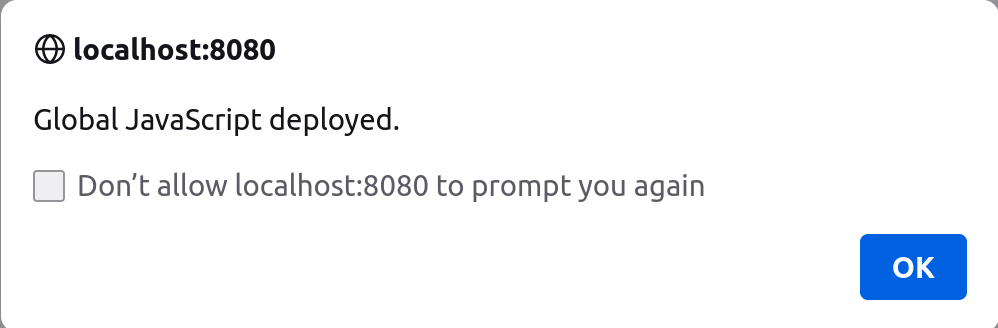
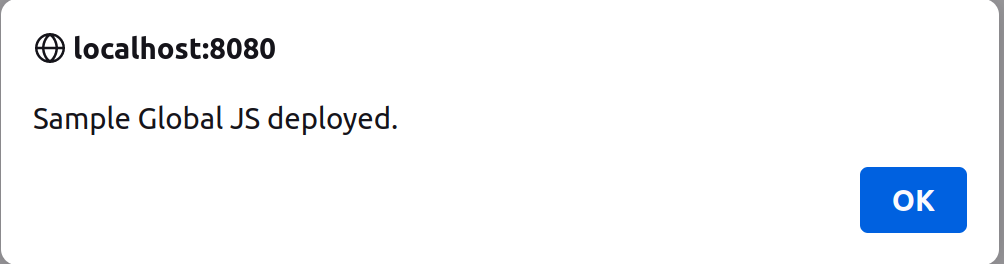
LRDOCS-11456 Fix existing tutorials to use the sample workspace instead of (the deprecated use of) Blade CLI

diff --git a/docs/dxp/latest/en/building-applications/client-extensions/front-end-client-extensions/tutorials/creating-your-first-javascript-client-extension.md b/docs/dxp/latest/en/building-applications/client-extensions/front-end-client-extensions/tutorials/creating-your-first-javascript-client-extension.md
@@ -5,7 +5,7 @@ uuid: e26e34b4-ca1b-490b-b911-4ef92ad123ea
 
 {bdg-secondary}`Available Liferay 7.4 U45+/GA45+`
 
-A basic JavaScript client extension is a great place to start with developing your own client extensions. You can use a JS client extension to run your own JavaScript on any page in Liferay without worrying about any dependency on Liferay code or developing a theme. You'll use [Blade CLI](../../../tooling/blade-cli.md) to generate, build, and deploy your client extension.
+A basic JavaScript client extension is a great place to start with developing your own client extensions. You can use a JS client extension to run your own JavaScript on any page in Liferay without worrying about any dependency on Liferay code or developing a theme. You'll use a sample client extension (from a [sample workspace](https://github.com/liferay/liferay-portal/tree/master/workspaces/sample-workspace)) to start with.
 
 ## Prerequisites
 
@@ -17,79 +17,81 @@ You must have these requirements ready in your development environment to begin 
    Please see the [compatibility matrix](https://help.liferay.com/hc/en-us/articles/4411310034829-Liferay-DXP-7-4-Compatibility-Matrix) for information on supported JDKs, databases, and environments. See [JVM Configuration](../../../../installation-and-upgrades/reference/jvm-configuration.md) for recommended JVM settings.
    ```
 
-1. Install [Blade CLI](../../../tooling/blade-cli/installing-and-updating-blade-cli.md).
+1. Start up a running instance of Liferay to test your client extension with. You can quickly start up a Liferay instance for testing by [Starting with a Docker Image](../../../../getting-started/starting-with-a-docker-image.md).
 
-1. Prepare a Liferay Workspace for your development environment. You can use [Blade CLI](../../../tooling/liferay-workspace/creating-a-liferay-workspace.md#creating-a-liferay-workspace-with-blade-cli) to set this up quickly for your desired version of Liferay.
-
-1. You must also have a running instance of Liferay to test your client extension with. You can quickly start up a Liferay instance for testing by [Starting with a Docker Image](../../../../getting-started/starting-with-a-docker-image.md).
-
-Now you have all the necessary tools to deploy your first JS client extension.
-
-## Create the Client Extension with Blade CLI
-
-Blade CLI generates the skeleton for many types of client extensions, including JS extensions: 
-
-1. Open a command line in your Liferay Workspace and navigate to the `client-extensions/` folder:
-
-    ```bash
-    cd client-extensions
-    ```
-
-1. Run this command to invoke Blade CLI, filling in the desired name for the new folder to generate:
+1. Download and unzip the sample workspace:
 
    ```bash
-   blade create -t client-extension [new-folder-name]
+   curl -J -O https://repository.liferay.com/nexus/service/local/artifact/maven/content\?r\=liferay-public-releases\&g\=com.liferay.workspace\&a\=com.sample.workspace\&\v\=LATEST\&p\=zip
    ```
 
-   The tool shows a list of client extension types. 
+   ```bash
+   unzip com.sample.workspace-20230217.1154.zip
+   ```
 
-1. Use the arrow keys to highlight `globalJS` from the list of client extension types and press Enter.
+Now you have all the necessary tools and a JavaScript client extension included in the sample workspace.
 
-    ![Select globalJS from the provided list of client extension types.](./creating-your-first-javascript-client-extension/images/01.png)
+## Examine the Client Extension
 
-1. Enter the desired name for your client extension at the prompt.
+The JavaScript client extension is in the sample workspace's `client-extensions/sample-global-js/` folder. It is defined in the `client-extension.yaml` file in this folder:
 
-The Blade CLI tool creates a subfolder with your chosen name within `client-extensions/`. These files are inside of it:
+```yaml
+sample-global-js:
+    name: Sample Global JS
+    type: globalJS
+    url: global.js
+```
 
-* `client-extension.yaml`: A YAML file containing the basic definition of your client extension, including the `type` (`globalJS`), your chosen name, and a generated URL. Edit this file if you want to change any of this information for your client extension. *Note that you can add more client extension definitions to this YAML file if you want to build and deploy them together.*
+This YAML block defines the client extension with the ID `sample-global-js` and contains the key configurations for a JavaScript client extension, including the `type` and the JavaScript file to add. See the [JavaScript YAML configuration reference](../javascript-yaml-configuration-reference.md) for more information on the properties.
 
-* `src/global.js`: A JS file that automatically runs when a page is configured to use this client extension. This is the only source file in a JS client extension by default.
+It also contains the `assemble` YAML block:
 
-Now you have a basic client extension. Next, you'll see what this client extension does and how to adjust its behavior.
+```yaml
+assemble:
+    - from: assets
+      include: "**/*"
+      into: static
+```
 
-## Examine and Deploy the Client Extension
+This block specifies that everything in the `assets/` folder should be included as a static resource in the client extension `.zip` file once it is built. The JavaScript code that you add in a JavaScript client extension is used as a static resource in Liferay.
 
-By default, the `src/global.js` file contains this line of code:
+The `assets/global.js` file contains this line of code:
 
 ```js
-window.alert('Global JavaScript deployed.');
+window.alert('Sample Global JS deployed.');
 ```
 
 This causes an alert box to appear with the given message when you open the page. Add any additional JavaScript you want to run to this file.
 
-Then, deploy your client extension to your Liferay testing instance. If you are running Liferay from a Docker container, run this command from your client extension's root folder:
+## Deploy the Client Extension to Liferay
+
+Deploy your client extension to your Liferay testing instance. If you're using a Docker container, run this command from the client extension's folder in the sample workspace:
 
 ```bash
-blade gw deploy -Ddeploy.docker.container.id=$(docker ps -lq)
+../../gradlew clean deploy -Ddeploy.docker.container.id=$(docker ps -lq)
 ```
 
-This builds and deploys your client extension to your Liferay's `deploy/` folder within your Docker container.
+This builds and deploys your client extension to Liferay's `deploy/` folder within your Docker container.
 
 ```{note}
 If you want to deploy your client extension to a Liferay Experience Cloud environment, use the Liferay Cloud [Command-Line Tool](https://learn.liferay.com/dxp-cloud/latest/en/reference/command-line-tool.html#) instead, and run the [`lcp deploy`](https://learn.liferay.com/dxp-cloud/latest/en/reference/command-line-tool.html#deploying-to-your-dxp-cloud-environment) command.
 ```
 
+```{tip}
+Run the command from the `client-extensions/` folder in your workspace instead to deploy all of the client extensions within it at once.
+```
+
 Confirm the deployment in your Liferay instance's console:
 
 ```
-STARTED my-global-js-client-extension_1.0.0
+STARTED sample-global-js_1.0.0
 ```
 
 Now that your client extension is successfully deployed, you must configure your Liferay instance to use it. 
 
 ## Use the Client Extension on a Page
 
-You must configure a page in your Liferay instance to use your deployed client extension. Follow these steps to see your JS in use:
+Configure a page in your Liferay instance to use your deployed client extension. Follow these steps to see your JavaScript in use:
 
 1. Log in to your running Liferay instance.
 
@@ -109,7 +111,7 @@ You must configure a page in your Liferay instance to use your deployed client e
 
 1. Optionally, publish the page for your JavaScript to execute on the page outside of Edit mode.
 
-Now your client extension is configured and you can see it in action. Navigate back to the page you configured, and you'll see the alert window pop up with a message from the client extension. If you want your JavaScript also to run when you view the page outside of Edit mode, you must publish the page.
+Now your client extension is configured and you can see it in action. Navigate back to the page you configured, and you'll see the alert window pop up with a message from the client extension. If you want your JavaScript to also run when you view the page outside of Edit mode, you must publish the page.
 
 ![This example client extension creates an alert message popup when the page is loaded.](./creating-your-first-javascript-client-extension/images/04.png)
 
@@ -119,6 +121,6 @@ If the alert window does not appear at first, try doing a hard refresh of the pa
 
 ## Next Steps
 
-Congratulations! You have successfully created and used your first JS client extension in Liferay. Next, try deploying other client extension types.
+Congratulations! You have successfully used your first JS client extension in Liferay. Next, try deploying other client extension types.
 
 * [Creating Your First CSS Client Extension](./creating-your-first-css-client-extension.md)

diff --git a/docs/dxp/latest/en/building-applications/client-extensions/front-end-client-extensions/tutorials/creating-your-first-css-client-extension.md b/docs/dxp/latest/en/building-applications/client-extensions/front-end-client-extensions/tutorials/creating-your-first-css-client-extension.md
@@ -5,7 +5,7 @@ uuid: a8159380-3119-46c5-be6e-d9e24e60c325
 
 {bdg-secondary}`Available Liferay 7.4 U45+/GA45+`
 
-A basic CSS client extension is a great place to start with developing your own client extensions. You can use a CSS client extension to override styling on any page in Liferay without needing to develop a theme or depend on any Liferay code. You'll use the [Blade CLI](../../../tooling/blade-cli.md) to generate, build, and deploy your client extension along the way.
+A basic CSS client extension is a great place to start with developing your own client extensions. You can use a CSS client extension to override styling on any page in Liferay without needing to develop a theme or depend on any Liferay code. You'll use a sample client extension (from a [sample workspace](https://github.com/liferay/liferay-portal/tree/master/workspaces/sample-workspace)) to start with.
 
 ## Prerequisites
 
@@ -17,59 +17,55 @@ You must have these requirements ready in your development environment to begin 
     Please see the [compatibility matrix](https://help.liferay.com/hc/en-us/articles/4411310034829-Liferay-DXP-7-4-Compatibility-Matrix) for information on supported JDKs, databases, and environments. See [JVM Configuration](../../../../installation-and-upgrades/reference/jvm-configuration.md) for recommended JVM settings.
     ```
 
-1. Install the [Blade CLI](../../../tooling/blade-cli/installing-and-updating-blade-cli.md).
+1. Start up a running instance of Liferay to test your client extension with. You can quickly start up a Liferay instance for testing by [Starting with a Docker Image](../../../../getting-started/starting-with-a-docker-image.md).
 
-1. Prepare a Liferay Workspace for your development environment. You can use [Blade CLI](../../../tooling/liferay-workspace/creating-a-liferay-workspace.md#creating-a-liferay-workspace-with-blade-cli) to set this up quickly for your desired version of Liferay.
+1. Download and unzip the sample workspace:
 
-1. You must also have a running instance of Liferay to test your client extension with. You can quickly start up a Liferay instance for testing by [Starting with a Docker Image](../../../../getting-started/starting-with-a-docker-image.md).
+   ```bash
+   curl -J -O https://repository.liferay.com/nexus/service/local/artifact/maven/content\?r\=liferay-public-releases\&g\=com.liferay.workspace\&a\=com.sample.workspace\&\v\=LATEST\&p\=zip
+   ```
+
+   ```bash
+   unzip com.sample.workspace-20230217.1154.zip
+   ```
 
 Now you have all the necessary tools to deploy your first CSS client extension.
 
-## Create the Client Extension with Blade CLI
+## Examine and Modify the Client Extension
 
-Blade CLI can generate the skeleton for many types of client extensions, including CSS extensions. Follow these steps to get started:
+The CSS client extension is in the sample workspace's `client-extensions/sample-global-css/` folder. It is defined in the `client-extension.yaml` file in this folder:
 
-1. Open a command line in your Liferay Workspace and navigate to the `client-extensions/` folder:
+```yaml
+sample-global-css:
+    name: Sample Global CSS
+    type: globalCSS
+    url: global.css
+```
 
-    ```bash
-    cd client-extensions
-    ```
+This YAML block defines the client extension with the ID `sample-global-css` and contains the key configurations for a CSS client extension, including the `type` and the CSS file to add. See the [CSS YAML configuration reference](../css-yaml-configuration-reference.md) for more information on the available properties.
 
-1. Run this command to invoke Blade CLI, entering a name for the new folder:
+It also contains the `assemble` YAML block:
 
-   ```bash
-   blade create -t client-extension [new-folder-name]
-   ```
+```yaml
+assemble:
+    - from: assets
+      include: "**/*"
+      into: static
+```
 
-   The tool shows a list of client extension types to choose from.
+This block specifies that everything in the `assets/` folder should be included as a static resource in the client extension `.zip` file once it is built. The CSS file that you add in a CSS client extension is used as static resource in Liferay.
 
-1. Use the arrow keys to highlight `globalCSS` from the list of client extension types and press Enter. <!--TASK: Confirm Naming-->
-
-   ![Select globalCSS from the provided list of client extension types.](./creating-your-first-css-client-extension/images/01.png)
-
-1. Enter the desired name for your client extension at the prompt.
-
-The Blade CLI tool creates a subfolder with your chosen name within `client-extensions/`. These files are inside of it:
-
-* `client-extension.yaml`: A YAML file containing the basic definition of your client extension, including the `type` (`globalCSS`), your chosen name, and a generated URL. Edit this file if you want to change any of this information for your client extension. *Note that you can add more client extension definitions to this YAML file if you want to build and deploy them together.*
-
-* `src/global.css`: A CSS file that overrides other CSS on a page when it is configured to use this client extension. This is the only source file in a CSS client extension by default.
-
-Now you have a basic client extension. Next you'll see what this client extension does and how to adjust its behavior.
-
-## Modify and Deploy the Client Extension
-
-By default, the `src/global.css` file contains this code:
+The `assets/global.css` file contains this CSS:
 
 ```css
 body {
-    font-family: cursive;
+    color: #0054f0;
 }
 ```
 
-This causes all text on the page to appear in cursive font when the client extension is used.
+This modifies the `body` color for the page when the client extension is enabled.
 
-First, add a change to the background color for buttons. Open the `global.css` file and add a new block of CSS to it. Add a declaration block for the `.btn-primary` class and a declaration for the `background-color`: 
+Add a change to also modify the background color for buttons. Open the `global.css` file and add a new block of CSS to it. Add a declaration block for the `.btn-primary` class and a declaration for the `background-color`: 
 
 ```css
 .btn-primary {
@@ -77,22 +73,30 @@ First, add a change to the background color for buttons. Open the `global.css` f
 }
 ```
 
-Now deploy your client extension to your Liferay testing instance. If you're using a Docker container, run this command from your client extension's root folder:
+Now you're ready to deploy it.
+
+## Deploy the Client Extension to Liferay
+
+Deploy your client extension to your Liferay testing instance. If you're using a Docker container, run this command from your client extension's folder in the sample workspace:
 
 ```bash
-blade gw deploy -Ddeploy.docker.container.id=$(docker ps -lq)
+../../gradlew clean deploy -Ddeploy.docker.container.id=$(docker ps -lq)
 ```
 
-This builds and deploys your client extension Liferay's `deploy/` folder inside your Docker container.
+This builds and deploys your client extension to Liferay's `deploy/` folder within your Docker container.
 
 ```{note}
 If you want to deploy your client extension to a Liferay Experience Cloud environment, use the Liferay Cloud [Command-Line Tool](https://learn.liferay.com/dxp-cloud/latest/en/reference/command-line-tool.html#) instead, and run the [`lcp deploy`](https://learn.liferay.com/dxp-cloud/latest/en/reference/command-line-tool.html#deploying-to-your-dxp-cloud-environment) command.
 ```
 
+```{tip}
+Run the command from the `client-extensions/` folder in your workspace instead to deploy all of the client extensions within it at once.
+```
+
 Confirm the deployment in your Liferay instance's console:
 
 ```
-STARTED my-global-css-client-extension_1.0.0
+STARTED sample-global-css_1.0.0
 ```
 
 Now that your client extension is deployed, you must configure your Liferay instance to use it. 
@@ -127,6 +131,6 @@ If the buttons on the page still show the default background color, try doing a 
 
 ## Next Steps
 
-Congratulations! You have successfully created and used your first CSS client extension in Liferay. Next, try deploying other client extension types.
+Congratulations! You have successfully used your first CSS client extension in Liferay. Next, try deploying other client extension types.
 
 * [Creating Your First JS Client Extension](./creating-your-first-javascript-client-extension.md)
